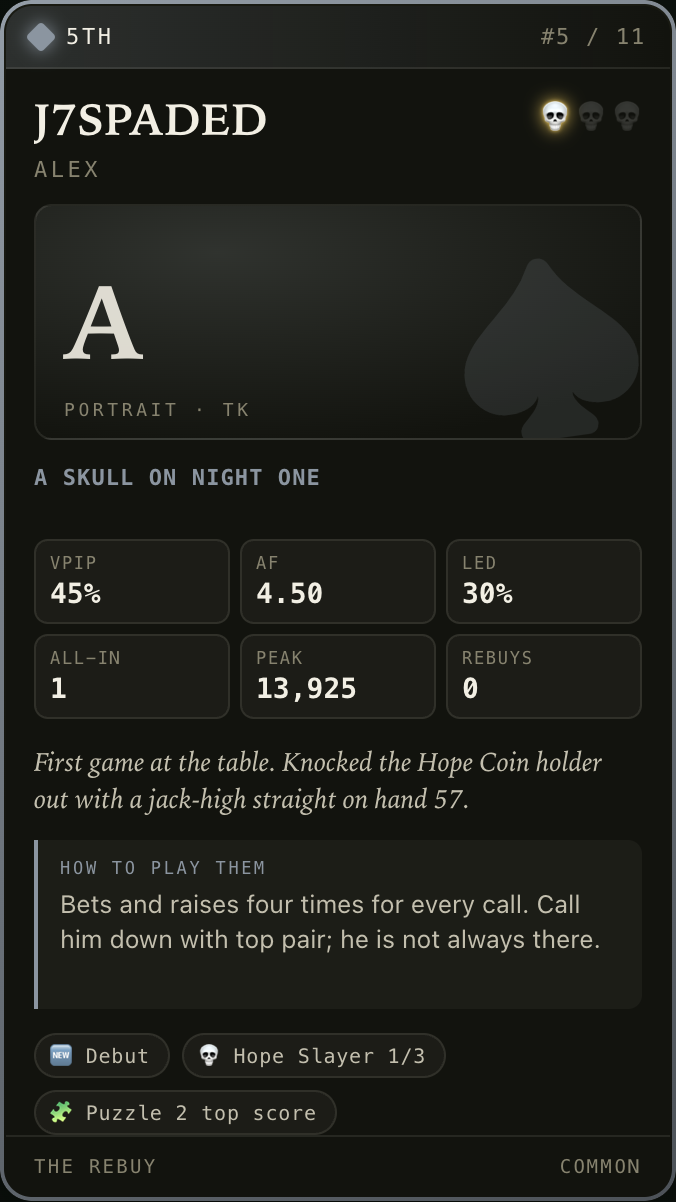
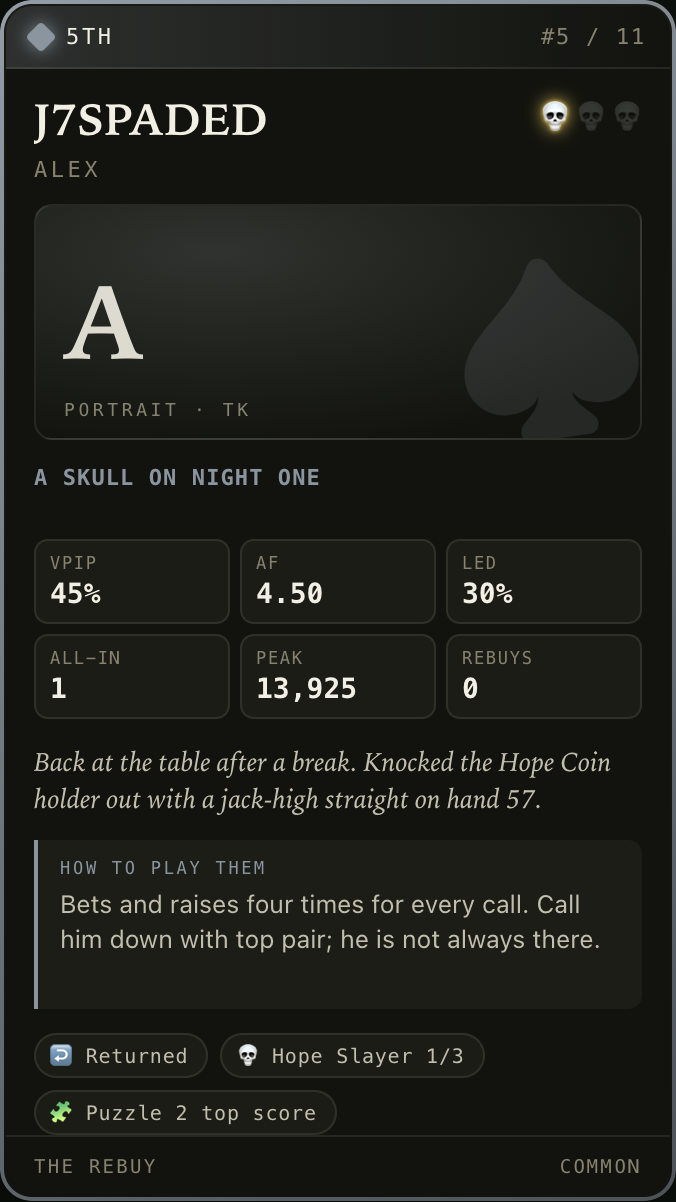
Alex B. is returning, not a debut: card 5, game page, puzzle result, set page

diff --git a/site/games/2026-10-13/index.html b/site/games/2026-10-13/index.html
@@ -30,7 +30,7 @@
     </ul>
     <p class="stat stat-strip">204 hands · 13 entries · $650 pot · 2h 10m · two tables</p>
     <p id="story"><strong>A rebuy at 7:27 and the title at 9:15.</strong> Matt W. (MawTTM) won the tournament for $295, his first win at this table, twenty-two minutes after Chris G.'s set of queens cut him to 468 chips and Jordan D.'s aces finished the job. He bought back in, took the chip lead soon after the tables merged, and knocked out five of the six players who left the final table: Jordan D. with trip tens, Chris G. with a river queen against pocket kings, Alex B., Thomas D. on the bubble, and Amy M. with a six-high straight against her jacks. Heads up against J. (jfe) with about three chips to J.'s one, the two agreed to split the top two prizes by chip count, $295 and $225, and played on for the title. J. doubled through at once, ace-ten against queen-deuce for kings full, which left the stacks within 500 chips of each other. On the next hand J. shoved six-three, Matt called with jack-deuce, and a pair of deuces made him champion. Amy M. (amaxwell) took $130 for third, her second third-place finish since August.</p>
-    <p>Eleven players sat down, enough for PokerNow to run two tables until 8:11pm. Two of them were new here, and both left a mark. Alex B. (j7spaded) knocked out Hope Coin holder Nick M. at hand 57, jack-eight for a jack-high straight against Nick's two pair, and took a Hope Slayer skull on his first night. He is the third player to hold one. Nick's first stack had already gone to Thomas D.'s pocket aces at hand 32; he bought back in. Jordan D. (JojiBerry) ended Table 2 by knocking out Beau G. and then Josh B., the September champion, in back-to-back hands: pocket nines against Beau's six-five, then ace-eight against Josh's ace-jack with an eight on the river for the full house. Amy M. won the biggest pot of the night before the last hand, 17,854 chips at hand 71, queens and jacks against Jordan's queens and sevens. Mike M. (kmikeym) went out eighth at hand 68, all in with ace-eight against Chris G.'s ace-king and J.'s pocket queens. Nobody showed down seven-deuce, and Gene did not play, so Cain and Abel stays open.</p>
+    <p>Eleven players sat down, enough for PokerNow to run two tables until 8:11pm. Two of them took their first cards here, and both left a mark. Alex B. (j7spaded), back at the table after a break, knocked out Hope Coin holder Nick M. at hand 57, jack-eight for a jack-high straight against Nick's two pair, and took a Hope Slayer skull. He is the third player to hold one. Nick's first stack had already gone to Thomas D.'s pocket aces at hand 32; he bought back in. Jordan D. (JojiBerry) ended Table 2 by knocking out Beau G. and then Josh B., the September champion, in back-to-back hands: pocket nines against Beau's six-five, then ace-eight against Josh's ace-jack with an eight on the river for the full house. Amy M. won the biggest pot of the night before the last hand, 17,854 chips at hand 71, queens and jacks against Jordan's queens and sevens. Mike M. (kmikeym) went out eighth at hand 68, all in with ace-eight against Chris G.'s ace-king and J.'s pocket queens. Nobody showed down seven-deuce, and Gene did not play, so Cain and Abel stays open.</p>
     <div id="results" class="table-scroll"><table class="ledger ledger--notes">
       <thead><tr><th>Finish</th><th>Player</th><th>Handle</th><th>Payout</th><th>Rebuys</th><th>Notes</th></tr></thead>
       <tbody>
@@ -38,7 +38,7 @@
         <tr class="finish-2"><td class="num">2</td><td>J.</td><td class="stat">jfe</td><td class="num">$225</td><td class="num">0</td><td>chopped by chip count · doubled up heads-up, then lost the last hand with six-three</td></tr>
         <tr class="finish-3"><td class="num">3</td><td>Amy M.</td><td class="stat">amaxwell</td><td class="num">$130</td><td class="num">0</td><td>biggest pot before the final hand, 17,854 chips · second third place since August</td></tr>
         <tr><td class="num">4</td><td>Thomas D.</td><td class="stat">spladow</td><td class="num">$0</td><td class="num">0</td><td>bubble · the August champion · took Nick M.'s first stack with aces</td></tr>
-        <tr><td class="num">5</td><td>Alex B.</td><td class="stat">j7spaded</td><td class="num">$0</td><td class="num">0</td><td>first game at this table · 💀 Hope Slayer, skull 1 of 3</td></tr>
+        <tr><td class="num">5</td><td>Alex B.</td><td class="stat">j7spaded</td><td class="num">$0</td><td class="num">0</td><td>back at the table after a break · 💀 Hope Slayer, skull 1 of 3</td></tr>
         <tr><td class="num">6</td><td>Chris G.</td><td class="stat">LEWD</td><td class="num">$0</td><td class="num">0</td><td>pocket kings cracked by a river queen · had cut Matt W. to 468 chips at Table 2</td></tr>
         <tr><td class="num">7</td><td>Jordan D.</td><td class="stat">JojiBerry</td><td class="num">$0</td><td class="num">0</td><td>first game at this table · knocked out Beau G. and Josh B. in back-to-back hands</td></tr>
         <tr><td class="num">8</td><td>Mike M.</td><td class="stat">kmikeym</td><td class="num">$0</td><td class="num">0</td><td>ace-eight into ace-king and pocket queens</td></tr>
@@ -65,7 +65,7 @@
         <tr><td class="num">134</td><td>J. (2nd)</td><td class="stat">MawTTM</td><td>jack-deuce paired the deuce against six-three, one hand after J. doubled up. Champion</td></tr>
       </tbody>
     </table></div>
-    <p class="stat">Nick M. keeps the Coin. Alex B. took a skull on his first night, so Chris G., Thomas D. and Alex B. each hold one of the three it takes. The Kevin Deuce has still never been claimed.</p>
+    <p class="stat">Nick M. keeps the Coin. Alex B. took a skull on his return, so Chris G., Thomas D. and Alex B. each hold one of the three it takes. The Kevin Deuce has still never been claimed.</p>
   </div>
 </section>
 <section class="band-dark" id="chip-race">

diff --git a/site/wwyhd/2026-10-13-1/index.html b/site/wwyhd/2026-10-13-1/index.html
@@ -106,7 +106,7 @@
     <a class="btn-primary" href="/#rsvp">RSVP for the next game</a>
   </div>
 </section>
-<script type="application/json" id="hand">{"id":"2026-10-13-1","game":"2026-10-13","handNo":57,"title":"Ten-seven with the Coin on the line","setup":"Table 1, hand 57, blinds 125/250, five-handed in the last minutes before the tables merge. Nick M. holds the Hope Coin and is on his second stack of the night, 3,875 chips, with ten-seven of diamonds in middle position. Mike M. folds and the action is on Nick.","seat":"nickmershon","blinds":{"sb":125,"bb":250,"ante":0},"dealer":"amaxwell","players":[{"handle":"jfe","stack":4383,"cards":["Q\u0068","3\u0064"],"shown":false,"profile":{"vpip":27,"af":2.41,"allInRate":0.02,"foldToRaise":72,"callDown":38}},{"handle":"kmikeym","stack":2134,"cards":["Q\u0063","2\u0073"],"shown":false,"profile":{"vpip":25,"af":1.84,"allInRate":0.1,"foldToRaise":63,"callDown":47}},{"handle":"nickmershon","stack":3875,"cards":["T\u0064","7\u0064"],"shown":true,"profile":null},{"handle":"amaxwell","stack":9127,"cards":["K\u0068","6\u0068"],"shown":false,"profile":{"vpip":21,"af":0.71,"allInRate":0.05,"foldToRaise":66,"callDown":86}},{"handle":"j7spaded","stack":9550,"cards":["8\u0073","J\u0064"],"shown":true,"profile":{"vpip":45,"af":4.5,"allInRate":0.02,"foldToRaise":63,"callDown":33}}],"board":["9\u0073","7\u0073","4\u0063","T\u0073","5\u0063"],"real":{"actions":[{"street":"PRE","handle":"kmikeym","type":"fold","amount":0},{"street":"PRE","handle":"nickmershon","type":"call","amount":0},{"street":"PRE","handle":"amaxwell","type":"call","amount":0},{"street":"PRE","handle":"j7spaded","type":"call","amount":0},{"street":"PRE","handle":"jfe","type":"check","amount":0},{"street":"FLOP","handle":"j7spaded","type":"check","amount":0},{"street":"FLOP","handle":"jfe","type":"check","amount":0},{"street":"FLOP","handle":"nickmershon","type":"bet","amount":500},{"street":"FLOP","handle":"amaxwell","type":"fold","amount":0},{"street":"FLOP","handle":"j7spaded","type":"call","amount":0},{"street":"FLOP","handle":"jfe","type":"fold","amount":0},{"street":"TURN","handle":"j7spaded","type":"check","amount":0},{"street":"TURN","handle":"nickmershon","type":"bet","amount":1500},{"street":"TURN","handle":"j7spaded","type":"raise","amount":6500},{"street":"TURN","handle":"nickmershon","type":"call","amount":0}],"result":"Nick M. limped ten-seven, bet two pair on the flop and again on the turn, and called all in when Alex B. raised to 6,500 holding jack-eight of spades, a straight. The river five changed nothing. Nick M. left the hand with 0 chips, out in ninth, and Alex B. took a Hope Slayer skull on his first night at this table; Alex B. with 13,925.","seatChips":0,"endStacks":{"jfe":4133,"kmikeym":2134,"nickmershon":0,"amaxwell":8877,"j7spaded":13925}},"startChips":3875,"profileThrough":"2026-10-13","opens":"2026-10-14"}</script>
+<script type="application/json" id="hand">{"id":"2026-10-13-1","game":"2026-10-13","handNo":57,"title":"Ten-seven with the Coin on the line","setup":"Table 1, hand 57, blinds 125/250, five-handed in the last minutes before the tables merge. Nick M. holds the Hope Coin and is on his second stack of the night, 3,875 chips, with ten-seven of diamonds in middle position. Mike M. folds and the action is on Nick.","seat":"nickmershon","blinds":{"sb":125,"bb":250,"ante":0},"dealer":"amaxwell","players":[{"handle":"jfe","stack":4383,"cards":["Q\u0068","3\u0064"],"shown":false,"profile":{"vpip":27,"af":2.41,"allInRate":0.02,"foldToRaise":72,"callDown":38}},{"handle":"kmikeym","stack":2134,"cards":["Q\u0063","2\u0073"],"shown":false,"profile":{"vpip":25,"af":1.84,"allInRate":0.1,"foldToRaise":63,"callDown":47}},{"handle":"nickmershon","stack":3875,"cards":["T\u0064","7\u0064"],"shown":true,"profile":null},{"handle":"amaxwell","stack":9127,"cards":["K\u0068","6\u0068"],"shown":false,"profile":{"vpip":21,"af":0.71,"allInRate":0.05,"foldToRaise":66,"callDown":86}},{"handle":"j7spaded","stack":9550,"cards":["8\u0073","J\u0064"],"shown":true,"profile":{"vpip":45,"af":4.5,"allInRate":0.02,"foldToRaise":63,"callDown":33}}],"board":["9\u0073","7\u0073","4\u0063","T\u0073","5\u0063"],"real":{"actions":[{"street":"PRE","handle":"kmikeym","type":"fold","amount":0},{"street":"PRE","handle":"nickmershon","type":"call","amount":0},{"street":"PRE","handle":"amaxwell","type":"call","amount":0},{"street":"PRE","handle":"j7spaded","type":"call","amount":0},{"street":"PRE","handle":"jfe","type":"check","amount":0},{"street":"FLOP","handle":"j7spaded","type":"check","amount":0},{"street":"FLOP","handle":"jfe","type":"check","amount":0},{"street":"FLOP","handle":"nickmershon","type":"bet","amount":500},{"street":"FLOP","handle":"amaxwell","type":"fold","amount":0},{"street":"FLOP","handle":"j7spaded","type":"call","amount":0},{"street":"FLOP","handle":"jfe","type":"fold","amount":0},{"street":"TURN","handle":"j7spaded","type":"check","amount":0},{"street":"TURN","handle":"nickmershon","type":"bet","amount":1500},{"street":"TURN","handle":"j7spaded","type":"raise","amount":6500},{"street":"TURN","handle":"nickmershon","type":"call","amount":0}],"result":"Nick M. limped ten-seven, bet two pair on the flop and again on the turn, and called all in when Alex B. raised to 6,500 holding jack-eight of spades, a straight. The river five changed nothing. Nick M. left the hand with 0 chips, out in ninth, and Alex B. took a Hope Slayer skull; Alex B. with 13,925.","seatChips":0,"endStacks":{"jfe":4133,"kmikeym":2134,"nickmershon":0,"amaxwell":8877,"j7spaded":13925}},"startChips":3875,"profileThrough":"2026-10-13","opens":"2026-10-14"}</script>
 <script type="application/json" id="names">{"jfe":"J.","kmikeym":"Mike M.","nickmershon":"Nick M.","amaxwell":"Amy M.","j7spaded":"Alex B."}</script>
 <script type="module" src="/wwyhd.js"></script>
 <script src="/next-game.js" defer></script>

diff --git a/site/cards/2026-10/index.html b/site/cards/2026-10/index.html
@@ -22,7 +22,7 @@
   <div class="band-inner">
     <h1 class="display">Set 4: The Rebuy</h1>
     <p>Eleven cards, minted from the October 13 game. Real players, real stats: every number on every card comes from the two official logs, 204 hands across two tables. Rarity is earned, not assigned. Winning the night takes the foil.</p>
-    <p class="stat">The set is named for the champion's second bullet. Matt W. was out of chips at 7:27, bought back in, and held the title at 9:15. Two players took their first cards tonight, and one of them left with a skull.</p>
+    <p class="stat">The set is named for the champion's second bullet. Matt W. was out of chips at 7:27, bought back in, and held the title at 9:15. Two players took their first cards tonight, and one of them, back at the table after a break, left with a skull.</p>
     <p class="stat stat-strip">11 cards · minted October 13, 2026 · 204 hands</p>
   </div>
 </section>
